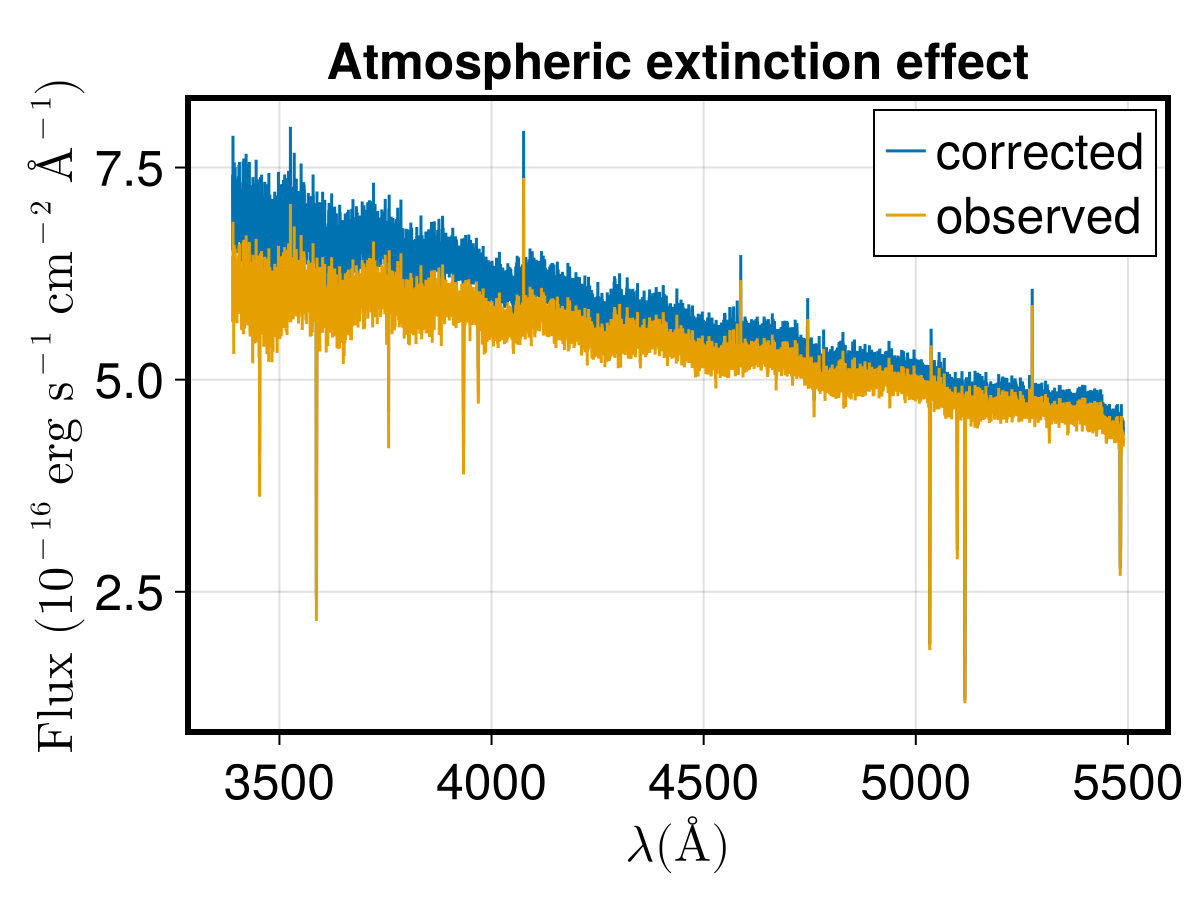
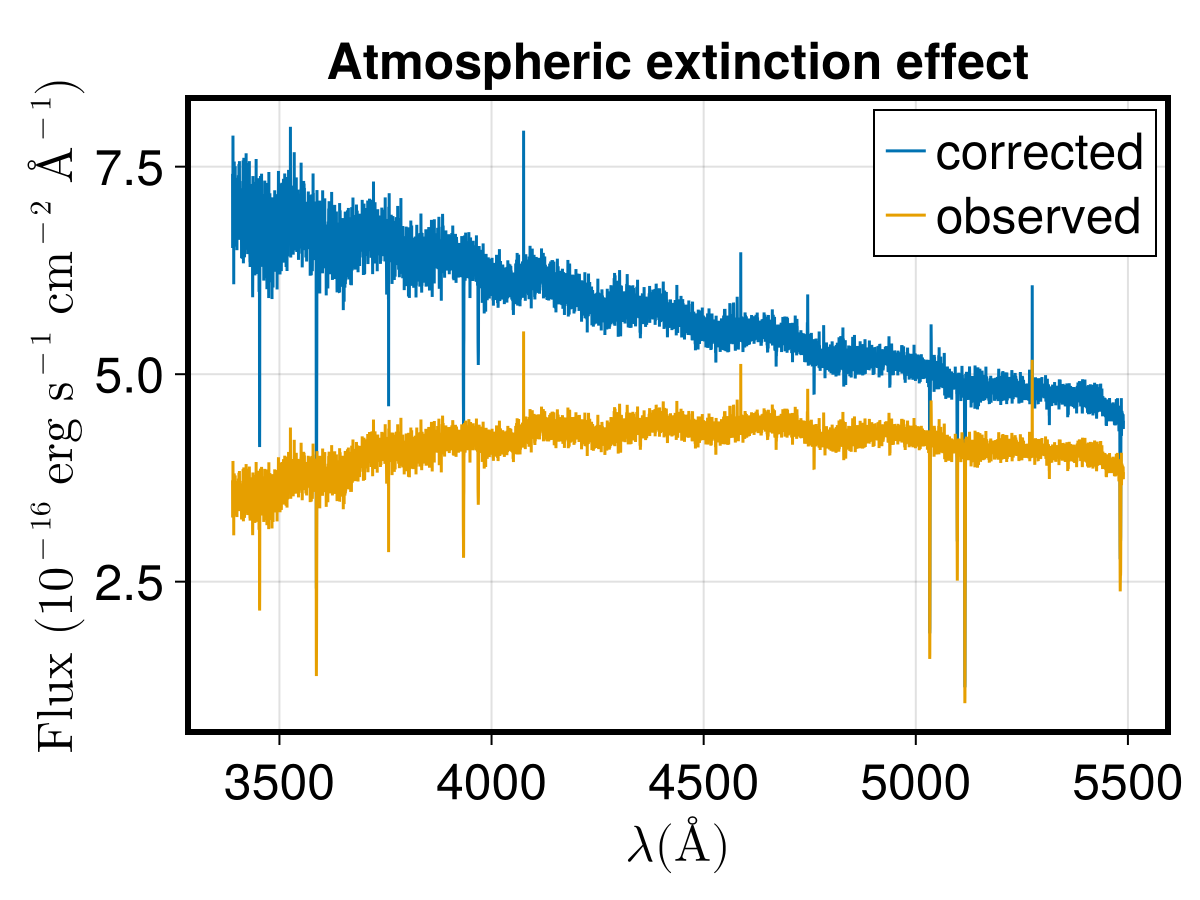
030226 commit

diff --git a/README.md b/README.md
@@ -148,49 +148,39 @@ For an easier handling of the extinction data, we have provided a few convenienc
 ```julia
 ExtinctionValues("Cerro Paranal",3500:4000)
 ```
-```
-501-element Vector{Float64}:
- 0.539
- 0.5384800000000001
- 0.53796
- 0.53744
- 0.5369200000000001
- 0.5364
- 0.53588
- 0.5353600000000001
- 0.53484
- 0.53432
- 0.5338
- 0.53328
- 0.53276
- 0.53224
- ⋮
- 0.3414
- 0.34109999999999996
- 0.3408
- 0.34049999999999997
- 0.34019999999999995
- 0.3399
- 0.3396
- 0.3393
- 0.33899999999999997
- 0.3387
- 0.33840000000000003
- 0.3381
- 0.3378
- 0.3375
-```
+
 
 or:
 
 ```julia
 ExtinctionLimits("Cerro Paranal")
 ```
+
+There are also two function to directly correct and input spectrum, in limear units, for atmospheric extinction or to apply extinction to a theoretical spectrum. E.g.:
+
+```julia
+inputspectrum = dataflux
+einputspectrum = edataflux
+inputwave = datawave
+aitmass = 1.3
+
+outputspectrum = DeExtinctSpectrum("La Silla",inputwave,dataflux,edataflux,airmass)
+'''
+
+or, viceversa, if the input spectrum is already free of extinction:
+
+```julia
+outputspectrum = ExtinctSpectrum("La Silla",inputwave,dataflux,edataflux,airmass)
 ```
-2-element Vector{Float64}:
-  3325.0
- 10000.0
-```
+
+
+For example, in the following plot we have a spectrum (no sort of cleaning applied) obtained by the blue arm of the [ESO X-shooter](https://www.eso.org/sci/facilities/paranal/instruments/xshooter.html) instrument with aormass `\sim 1.25` from the [Cerro Paranal](https://en.wikipedia.org/wiki/Cerro_Paranal).
+
+![Histogram](docs/src/extinction.png.png)
+
+
+The spectrum shown in the plot, with a proper cleaning and processing, was published and analyed in [Urata et al. (2023)](https://ui.adsabs.harvard.edu/abs/2023NatAs...7...80U/abstract).
+
 
 
 ### Available recipe plot